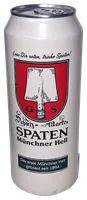
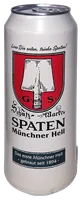
Retifica a perspectiva da lata do Spaten
Era a única foto do lote tirada com a câmera acima do produto: o aro superior
aparecia como elipse aberta e o corpo afunilava para baixo, o que dava a
impressão de lata torta. Medindo, o afunilamento era de 4,42°, contra 0,14° da
Estrella e 0,33° da Guinness — as outras latas do catálogo são frontais.

Não é rotação: a inclinação do eixo é de 0,59°, dentro do normal do lote. É
perspectiva, então rodar a imagem não resolveria.

Procurei foto melhor antes de retocar. O Open Food Facts tem sete uploads para
esse código de barras, mas só um mostra a lata inteira, e é justamente o que
está em uso; os outros são rótulo, tabela nutricional ou mão segurando.

A correção é uma transformação projetiva, o equivalente ao recorte em
perspectiva do Photoshop: ajusta uma reta a cada lateral do corpo, monta o
quadrilátero que elas formam e mapeia para um retângulo. Afunilamento foi de
4,42° para 0,55°.

Uma tentativa intermediária amostrava duas linhas isoladas em vez de ajustar
retas, e perto da base a lata curva para dentro — a largura medida ali saía
pequena demais e a correção disparava, chegando a 22° de afunilamento invertido.
O ajuste por reta sobre o corpo inteiro é imune a isso, e é o que ficou.

O aro superior continua visível. Isso está na foto, e nenhuma transformação 2D
remove sem inventar pixel de um produto de marca real.

Claude-Session: https://claude.ai/code/session_01C875iUstKLHypmttDcwtoS

diff --git a/ferramentas/perspectiva.py b/ferramentas/perspectiva.py
@@ -1,0 +1,86 @@
+"""Retifica a perspectiva de um produto cilíndrico fotografado de cima.
+
+A lata do Spaten foi fotografada com a câmera acima da linha do produto: o aro
+superior aparece como elipse aberta e o corpo afunila para baixo. As outras duas
+latas do catálogo são frontais, então ela destoa.
+
+A correção é uma transformação projetiva — a mesma coisa que o "recorte em
+perspectiva" do Photoshop. Mede as laterais do corpo em duas alturas, monta o
+quadrilátero que elas formam e mapeia esse quadrilátero para um retângulo. As
+laterais ficam paralelas e o aro superior comprime junto, porque a projeção é
+global.
+"""
+import numpy as np
+from PIL import Image
+
+
+def _bordas(a, y, lim=0.5):
+    linha = np.where(a[y] > lim)[0]
+    return (linha.min(), linha.max()) if len(linha) > 2 else None
+
+
+def _coef(dest, src):
+    """Coeficientes que o PIL espera: mapeiam destino -> origem."""
+    A, B = [], []
+    for (xd, yd), (xs, ys) in zip(dest, src):
+        A.append([xd, yd, 1, 0, 0, 0, -xs * xd, -xs * yd]); B.append(xs)
+        A.append([0, 0, 0, xd, yd, 1, -ys * xd, -ys * yd]); B.append(ys)
+    return np.linalg.solve(np.array(A, float), np.array(B, float))
+
+
+def retifica(caminho, topo=0.10, base=0.90, margem=0.25, corpo=(0.30, 0.86)):
+    """`corpo` delimita a faixa usada para ajustar as retas laterais.
+
+    Amostrar duas linhas isoladas não funciona: perto da base a lata curva para
+    dentro, e uma linha tomada ali dá uma largura pequena demais, o que faz a
+    correção disparar — cheguei a medir 22° de afunilamento tentando assim.
+    Ajustar uma reta ao corpo inteiro e só então avaliá-la nas duas alturas é
+    imune a isso.
+    """
+    im = Image.open(caminho).convert('RGBA')
+    a = np.asarray(im).astype(np.float32)[..., 3] / 255
+    H, W = a.shape
+
+    ys, xe, xd = [], [], []
+    for y in range(H):
+        b = _bordas(a, y)
+        if b:
+            ys.append(y); xe.append(b[0]); xd.append(b[1])
+    ys = np.array(ys, float); xe = np.array(xe, float); xd = np.array(xd, float)
+    i0, i1 = int(len(ys) * corpo[0]), int(len(ys) * corpo[1])
+    pe = np.polyfit(ys[i0:i1], xe[i0:i1], 1)
+    pd = np.polyfit(ys[i0:i1], xd[i0:i1], 1)
+
+    yt, yb = int(H * topo), int(H * base)
+    lt, rt = np.polyval(pe, yt), np.polyval(pd, yt)
+    lb, rb = np.polyval(pe, yb), np.polyval(pd, yb)
+    larg_t, larg_b = rt - lt, rb - lb
+    # largura alvo: a do meio do corpo, para não esticar nem encolher no geral
+    alvo = (larg_t + larg_b) / 2
+    cx_t, cx_b = (lt + rt) / 2, (lb + rb) / 2
+    cx = (cx_t + cx_b) / 2
+
+    src = [(lt, yt), (rt, yt), (rb, yb), (lb, yb)]
+    dst = [(cx - alvo / 2, yt), (cx + alvo / 2, yt),
+           (cx + alvo / 2, yb), (cx - alvo / 2, yb)]
+
+    # tela mais larga, para a projeção não cortar nada nas pontas
+    pad = int(W * margem)
+    tela = Image.new('RGBA', (W + 2 * pad, H), (0, 0, 0, 0))
+    tela.alpha_composite(im, (pad, 0))
+    src = [(x + pad, y) for x, y in src]
+    dst = [(x + pad, y) for x, y in dst]
+
+    fora = tela.transform(tela.size, Image.PERSPECTIVE, _coef(dst, src),
+                          Image.BICUBIC)
+    bb2 = fora.getchannel('A').point(lambda v: 255 if v > 2 else 0).getbbox()
+    print(f'  largura topo {larg_t:.0f}px · base {larg_b:.0f}px · alvo {alvo:.0f}px')
+    return fora.crop(bb2) if bb2 else fora
+
+
+if __name__ == '__main__':
+    import sys
+    entrada = sys.argv[1]
+    saida = sys.argv[2]
+    retifica(entrada).save(saida)
+    print(f'  salvo em {saida}')

diff --git a/ZeroGrau/img/CREDITOS.md b/ZeroGrau/img/CREDITOS.md
@@ -57,4 +57,11 @@ Depois do recorte, `ferramentas/padroniza-fotos.py` apara a moldura
 transparente, iguala altura, base e folga entre as 21, e exporta em WebP de 400
 e 200 px de altura, escolhidos pelo navegador conforme a densidade da tela.
 
+A lata do Spaten passa antes por `ferramentas/perspectiva.py`. Ela é a única
+foto do lote tirada com a câmera acima do produto: o corpo afunilava 4,42°,
+contra 0,14° da Estrella, que é outra lata, e destoava na prateleira. A
+retificação projetiva deixou o afunilamento em 0,55°. O aro superior continua
+visível, porque isso está na foto e nenhuma transformação 2D o remove sem
+inventar pixel de um produto real.
+
 Os PNG do primeiro lote ficam no histórico do git, no commit `c000790`.

diff --git a/README.md b/README.md
@@ -83,6 +83,7 @@ Para refazer o lote:
 pip install pillow
 python3 ferramentas/baixa-fotos.py        # frontais do Open Food Facts → /tmp/fonte2
 # subir cada foto ao Adobe e rodar image_remove_background → /tmp/adobe
+python3 ferramentas/perspectiva.py <in> <out>   # só quando a foto é de cima
 python3 ferramentas/padroniza-fotos.py    # iguala e exporta os WebP
 ```
 
